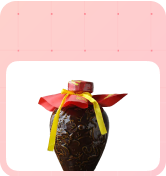
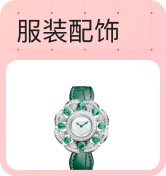
l30页面调整以及图片更换

diff --git a/src/page/home/index.tsx b/src/page/home/index.tsx
@@ -233,18 +233,18 @@ export default () => {
 					<Grid columns={4} gap={0} style={{marginTop:10}}>
 						<Grid.Item className='sc-button'  onClick={()=>{navigate("/mall/0")}}>
 							<Image className='sc-button-img' src="/sc/button1.png" />
-							<div>热销酒业</div>
+							<div>亚马逊专场</div>
 						</Grid.Item>
 						<Grid.Item className='sc-button' onClick={()=>{Auth.navigate(navigate,"/activity")}}>
 							<Image className='sc-button-img' src="/sc/button2.png" />
-							<div>壹酒购</div>
+							<div>雨果专场</div>
 						</Grid.Item>
 						<Grid.Item className='sc-button' onClick={()=>{Auth.navigate(navigate,"/record")}}>
-							<Image className='sc-button-img' src="/sc/button4.png" />
+							<Image className='sc-button-img' src="/sc/button3.png" />
 							<div>我的酒单</div>
 						</Grid.Item>
 						<Grid.Item className='sc-button' onClick={()=>{window.location.href = kefu}}>
-							<Image className='sc-button-img' src="/sc/button3.png" />
+							<Image className='sc-button-img' src="/sc/button4.png" />
 							<div>在线客服</div>
 						</Grid.Item>
 					</Grid>
@@ -252,27 +252,35 @@ export default () => {
 					<Image className='sc-youhui'  src="/sc/youhui.png" />
 					<Grid columns={4} gap={10} className='sc-type-list'>
 						<Grid.Item className='sc-type'  onClick={()=>{navigate("/mall/1")}}>
-							<div className='sc-type-name' style={{ backgroundImage: 'url("/sc/type1.png")'}}>酒类正品</div>
+							<div className='sc-type-name' style={{ backgroundImage: 'url("/sc/type1.png")'}}>
+								{/* 酒类正品 */}
+							</div>
 
 							{/* <Image className='sc-type-img' src="/sc/type1.png" /> */}
 						</Grid.Item>
 						<Grid.Item className='sc-type'   onClick={()=>{navigate("/mall/2")}}>
-							<div className='sc-type-name' style={{ backgroundImage: 'url("/sc/type2.png")'}}>酿酒原料</div>
+							<div className='sc-type-name' style={{ backgroundImage: 'url("/sc/type2.png")'}}>
+								{/* 酿酒原料 */}
+							</div>
 							{/* <Image className='sc-type-img' src="/sc/type2.png" /> */}
 						</Grid.Item>
 						<Grid.Item className='sc-type'   onClick={()=>{navigate("/mall/3")}}>
-							<div className='sc-type-name' style={{ backgroundImage: 'url("/sc/type3.png")'}}>酿酒辅料</div>
+							<div className='sc-type-name' style={{ backgroundImage: 'url("/sc/type3.png")'}}>
+								{/* 酿酒辅料 */}
+							</div>
 							{/* <Image className='sc-type-img' src="/sc/type3.png" /> */}
 						</Grid.Item>
 						<Grid.Item className='sc-type'  onClick={()=>{navigate("/mall/4")}}>
-							<div className='sc-type-name' style={{ backgroundImage: 'url("/sc/type4.png")'}}>酒类包装</div>
+							<div className='sc-type-name' style={{ backgroundImage: 'url("/sc/type4.png")'}}>
+								{/* 酒类包装 */}
+							</div>
 							{/* <Image className='sc-type-img' src="/sc/type4.png" /> */}
 						</Grid.Item>
 					</Grid>
 					<Image className='sc-youhui'  src="/sc/remai.png" onClick={()=>{navigate("/mall/0")}} />
 					{/* <br/> */}
 					{/* <Image className='sc-jxhw'  src="/sc/jxhw.png" /> */}
-					<Divider className='dy-type'>精选好酒</Divider>
+					<Divider className='dy-type'>精选好物</Divider>
 					<Grid columns={2} gap={10} style={{marginTop:10,padding:"0 5px"}}>
 						{gameList1}
 					</Grid>

diff --git a/src/page/mall/index.tsx b/src/page/mall/index.tsx
@@ -70,10 +70,10 @@ export default () => {
 	let gameList = <></>
 	if(params['type'] == '1' || params['type'] == '2'|| params['type'] == '3'|| params['type'] == '4'){
 		
-		if(params['type'] == '1')title = '新品上架'
-		if(params['type'] == '2')title = '酿酒原料'
-		if(params['type'] == '3')title = '酿酒辅料'
-		if(params['type'] == '4')title = '酒类包装'
+		if(params['type'] == '1')title = '服装配饰'
+		if(params['type'] == '2')title = '日用生活'
+		if(params['type'] == '3')title = '美食饮食'
+		if(params['type'] == '4')title = '科技厨电'
 		gameList = <Grid columns={2} gap={10} style={{marginTop:10}}>
 		{
 			list.map((game:any, index:any) =>{
@@ -102,7 +102,7 @@ export default () => {
 		gameList = <>
 			{/* <Image className='sc-jxhw'  src="/sc/jxhw.png" /> */}
 			
-			<Divider className='dy-type'>精选好酒</Divider>
+			<Divider className='dy-type'>精选好物</Divider>
 			<Grid columns={2} gap={10} style={{marginTop:10}}>
 				{gameList1}
 			</Grid>

diff --git a/src/font.css b/src/font.css
@@ -4,7 +4,7 @@
 }
 
 .adm-tab-bar-item-active{
-  color: #ad6ffb !important;
+  color: #1979ff !important;
 }
 
 .kefu a{
@@ -78,5 +78,5 @@
   color: #fff !important;
 }
 .adm-notice-bar.adm-notice-bar-alert {
-  --text-color: #ad6ffb;
+  --text-color: #1979ff;
 }

diff --git a/src/page/home/index.css b/src/page/home/index.css
@@ -189,9 +189,9 @@
 }
 .dy-type{
 	font-size: 16px;
-  color: #16ba63;
+  color: #000;
   margin: 20px 0;
 	font-weight: bold;
-	border-color: #85daae;
+	border-color: #1979ff;
 	padding: 0 50px;
 }
